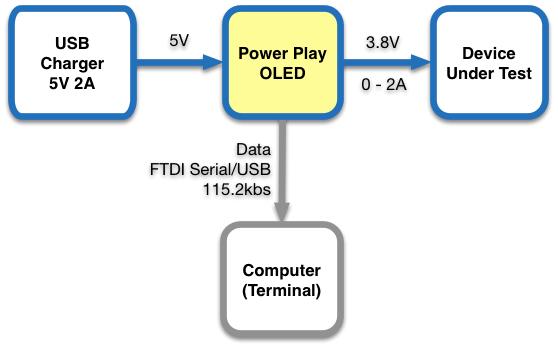
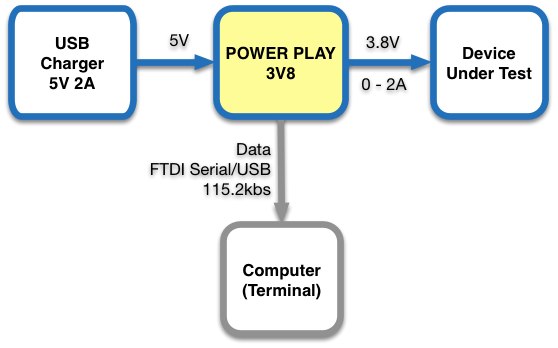
Updated documentation to reflect the name change.

Changed region(s): [[0.3351, 0.0, 0.6398, 0.3736], [0.4875, 0.3448, 0.5179, 0.5747]]

diff --git a/pmon_3v8/README.md b/pmon_3v8/README.md
@@ -4,13 +4,13 @@ POWER-PLAY 3V8
 ==============
 
 ## OVERVIEW
-Power-Play 3V8 is an Arduino based measurement tool that is used to measure the power consumption of mobile devices under different conditions and software versions. It provides 3.8V 2A DC power that simulates a single cell Li-ion battery and is connected to the device **instead of the battery**. The Power-Play 3V8 analyzes the current pattern consummed by the devcie and provides aggregated data on an integral a 1.3" OLED display. It also output the data to a USB/Serial port so it can be logged by a computer for further analysis. The computer based logging is optional and in most cases not necesary since the Power-Play 3V8 provides the key aresults on the display in real time (e.g. the average current consumption over the measurement period).
+POWER PLAY 3V8 is an Arduino based measurement tool that is used to measure the power consumption of mobile devices under different conditions and software versions. It provides 3.8V 2A DC power that simulates a single cell Li-ion battery and is connected to the device **instead of the battery**. The POWER PLAY 3V8 analyzes the current pattern consummed by the devcie and provides aggregated data on an integral a 1.3" OLED display. It also output the data to a USB/Serial port so it can be logged by a computer for further analysis. The computer based logging is optional and in most cases not necesary since the POWER PLAY 3V8 provides the key aresults on the display in real time (e.g. the average current consumption over the measurement period).
 
-**WARNING using the Power-PLay 3V8 required modified devices with batteries removed. This modification should be done by qualified persons only due to the risk of fire, personal injury and even death. The Power-Play 3V8 information is provided here as-is and you must consult a qualified person before using it in any way. NEVER operate the Power-Play 3V8 with the battery connected to the device under test.**
+**WARNING using the Power-PLay 3V8 required modified devices with batteries removed. This modification should be done by qualified persons only due to the risk of fire, personal injury and even death. The POWER PLAY 3V8 information is provided here as-is and you must consult a qualified person before using it in any way. NEVER operate the POWER PLAY 3V8 with the battery connected to the device under test.**
 
 ![](doc/pmon_3v8_closeup_annotated.png)
 
-1. +5V power input micro USB connector. This connector should be connected to a standard 5V charger and is used to power the Power-Play 3V8 and the device under test. It is important to use a charger that can provide sufficient current even during peak current consumption by the device under test. When testing a typicall smark phone, powering the Power-Play 3V8 from a USB port or a small 1A charger typically result in insufficient current and unstable operation.
+1. +5V power input micro USB connector. This connector should be connected to a standard 5V charger and is used to power the POWER PLAY 3V8 and the device under test. It is important to use a charger that can provide sufficient current even during peak current consumption by the device under test. When testing a typicall smark phone, powering the POWER PLAY 3V8 from a USB port or a small 1A charger typically result in insufficient current and unstable operation.
 
 2. Power output connection to the device. This is a 3 pin standard servo connector (JR and Hitec style) with ground at the center pin and 3.8V DC (typical) at the two end pins (it's sufficient to use only one of them). This output voltage is adjustable (see below) and is connected to the devcie instead of the battery, emulating a single cell Lithium-ion battery.
 
@@ -18,13 +18,12 @@ Power-Play 3V8 is an Arduino based measurement tool that is used to measure the 
 
 4. Display. This is a 1.3" monochrome OLED display that shows the analysis results. The display supports multiple pages with different data items.
 
-5. Operation button. A short click switch the displyed data page and a long press (~4 seconds) resets the analysis variables and starts a new analysis session. Holding this button pressed while powering the Power-Play 3V8 activates the test screen (for post manufacturing tests).
+5. Operation button. A short click switch the displyed data page and a long press (~4 seconds) resets the analysis variables and starts a new analysis session. Holding this button pressed while powering the POWER PLAY 3V8 activates the test screen (for post manufacturing tests).
 
-6. This is a multi turn trim potentionameter that allows to adjust the output voltage in the range 3.6V - 4.2V. It is acceccible from the side of the Power-Play 3V8 and requires a small flat screwdriver.
+6. This is a multi turn trim potentionameter that allows to adjust the output voltage in the range 3.6V - 4.2V. It is acceccible from the side of the POWER PLAY 3V8 and requires a small flat screwdriver.
 
-7. Auto Reset. This is a solder jumper on the PCB that controls the the USB auto reset feature. When shorted, establishing a new connection via the USB connector resets the Power-Play 3V8. This is useful when developing firmaware for the Power-Play 3V8 using the Arduino IDE. If the auto reset is not desired (e.g. in order to have analysis sessions non interuppted by connecting the USB port), the short should be disconnected with a solder iron (after removing the 4 top screws and top cover).
+7. Auto Reset. This is a solder jumper on the PCB that controls the the USB auto reset feature. When shorted, establishing a new connection via the USB connector resets the POWER PLAY 3V8. This is useful when developing firmaware for the POWER PLAY 3V8 using the Arduino IDE. If the auto reset is not desired (e.g. in order to have analysis sessions non interuppted by connecting the USB port), the short should be disconnected with a solder iron (after removing the 4 top screws and top cover).
 
-pmon_3v8_closeup_annotated.png
 TODO: add an overall picture with annotation for connectors, display, button and trim pot.
 
 ## FUNCTIONAL BLOCK DIAGRAM
@@ -32,7 +31,7 @@ TODO: add an overall picture with annotation for connectors, display, button and
 ![](doc/functional_diagram.png)
 
 * **Voltage regulator** - a 5V to 3.8v low dropout (LDO) voltage regulator. The output voltage (nominal 3.8V) can be set by the small multi turn potentiometer on the right hand of the device.
-* **Shunt resistor** - this is a small (25 milliohms) 1% Kelvin resistor that is used to sample the current consummed the the device. The voltage drop on the shunt does not affect the output voltage of the Power-Play 3V8 because of the feedback loop between the output voltage and the LDO.
+* **Shunt resistor** - this is a small (25 milliohms) 1% Kelvin resistor that is used to sample the current consummed the the device. The voltage drop on the shunt does not affect the output voltage of the POWER PLAY 3V8 because of the feedback loop between the output voltage and the LDO.
 * **Colulomb counter** - this is an analog circuit that continosly integrate the current through the shunt resistor and generates a pulse ('tick') whenever the charge since the last tick reaches a predefined value. (charge is the integral of current over time and is measured in Ampere Hours). For more information read the LTC2943 datasheet at http://www.linear.com/product/LTC2943.
 * **Charge counter** - this is a digital counter that counts the Coulomb coungter ticks. It provides the long term current integration.
 * **Analysis** - this is firmware that tracks the current patterns and computes real time summary data such as momentary current, accoumlated charge, number of times device transitioned from standby to wake mode and so on.
@@ -43,11 +42,11 @@ TODO: add an overall picture with annotation for connectors, display, button and
 
 ![](doc/connection_diagram.png)
 
-Plug the +5V micro usb connector to a USB charger with sufficient current (e.g. 2A). Plug the modified device to the DEVICE connector. Optional: to log the data on a computer connect the USB port to a computer and run a logging program or script (the Power-Play 3V8 looks like a 115.2kbs FTDI serial over USB port).
+Plug the +5V micro usb connector to a USB charger with sufficient current (e.g. 2A). Plug the modified device to the DEVICE connector. Optional: to log the data on a computer connect the USB port to a computer and run a logging program or script (the POWER PLAY 3V8 looks like a 115.2kbs FTDI serial over USB port).
 
 ## ANALYSIS
 
-The Power-Play 3V8 performs the analysis by dividing the time into slots of 100ms each (10Hz). For each time slot the analsys firmware samples the number of harge ticks occured in that time slot (partial ticks are rolled to the next timeslots, avoiding intergration errors) and tracks the total ticks and time in global analysis counters. These counters are reset when the analysis is reset by long pressing the button. These values are used to compute, report and display the following values among others:
+The POWER PLAY 3V8 performs the analysis by dividing the time into slots of 100ms each (10Hz). For each time slot the analsys firmware samples the number of harge ticks occured in that time slot (partial ticks are rolled to the next timeslots, avoiding intergration errors) and tracks the total ticks and time in global analysis counters. These counters are reset when the analysis is reset by long pressing the button. These values are used to compute, report and display the following values among others:
 
 * Charge in last time slot.
 * Average current during last time slot.
@@ -65,7 +64,7 @@ Note: the ananlysis also samples and reports the momentary voltage levle at each
 
 ## OPERATION
 
-Operating the Power-Play 3V8 is very simple. Connect the Power-Play 3V8 to a 5V charger and the device under test as described above, reset the analysis by long pressing the button (~4 seconds) and let the device operate under the desired conditions. The analysis is done is real time and the results are shown on the display. Click the button to switch between display pages to see the desired values. 
+Operating the POWER PLAY 3V8 is very simple. Connect the POWER PLAY 3V8 to a 5V charger and the device under test as described above, reset the analysis by long pressing the button (~4 seconds) and let the device operate under the desired conditions. The analysis is done is real time and the results are shown on the display. Click the button to switch between display pages to see the desired values. 
 
 ![](doc/pmon_3v8_with_phone.jpg)
 
